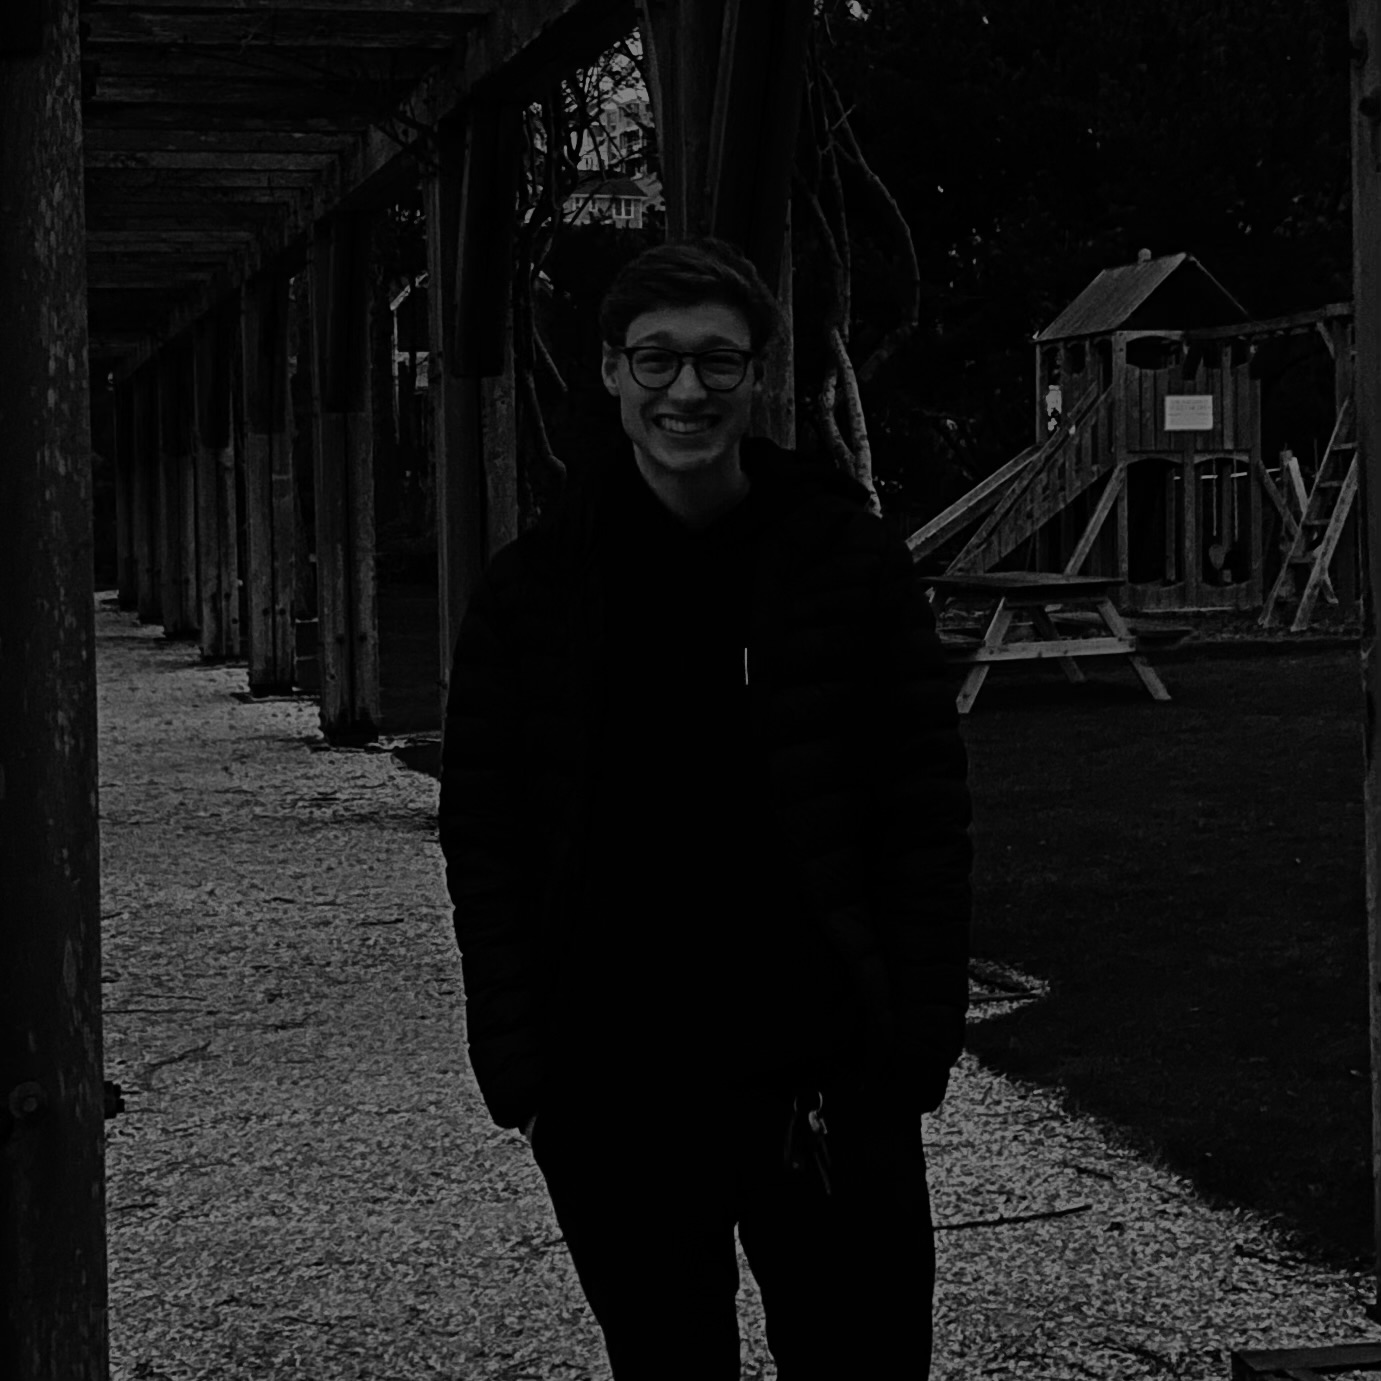
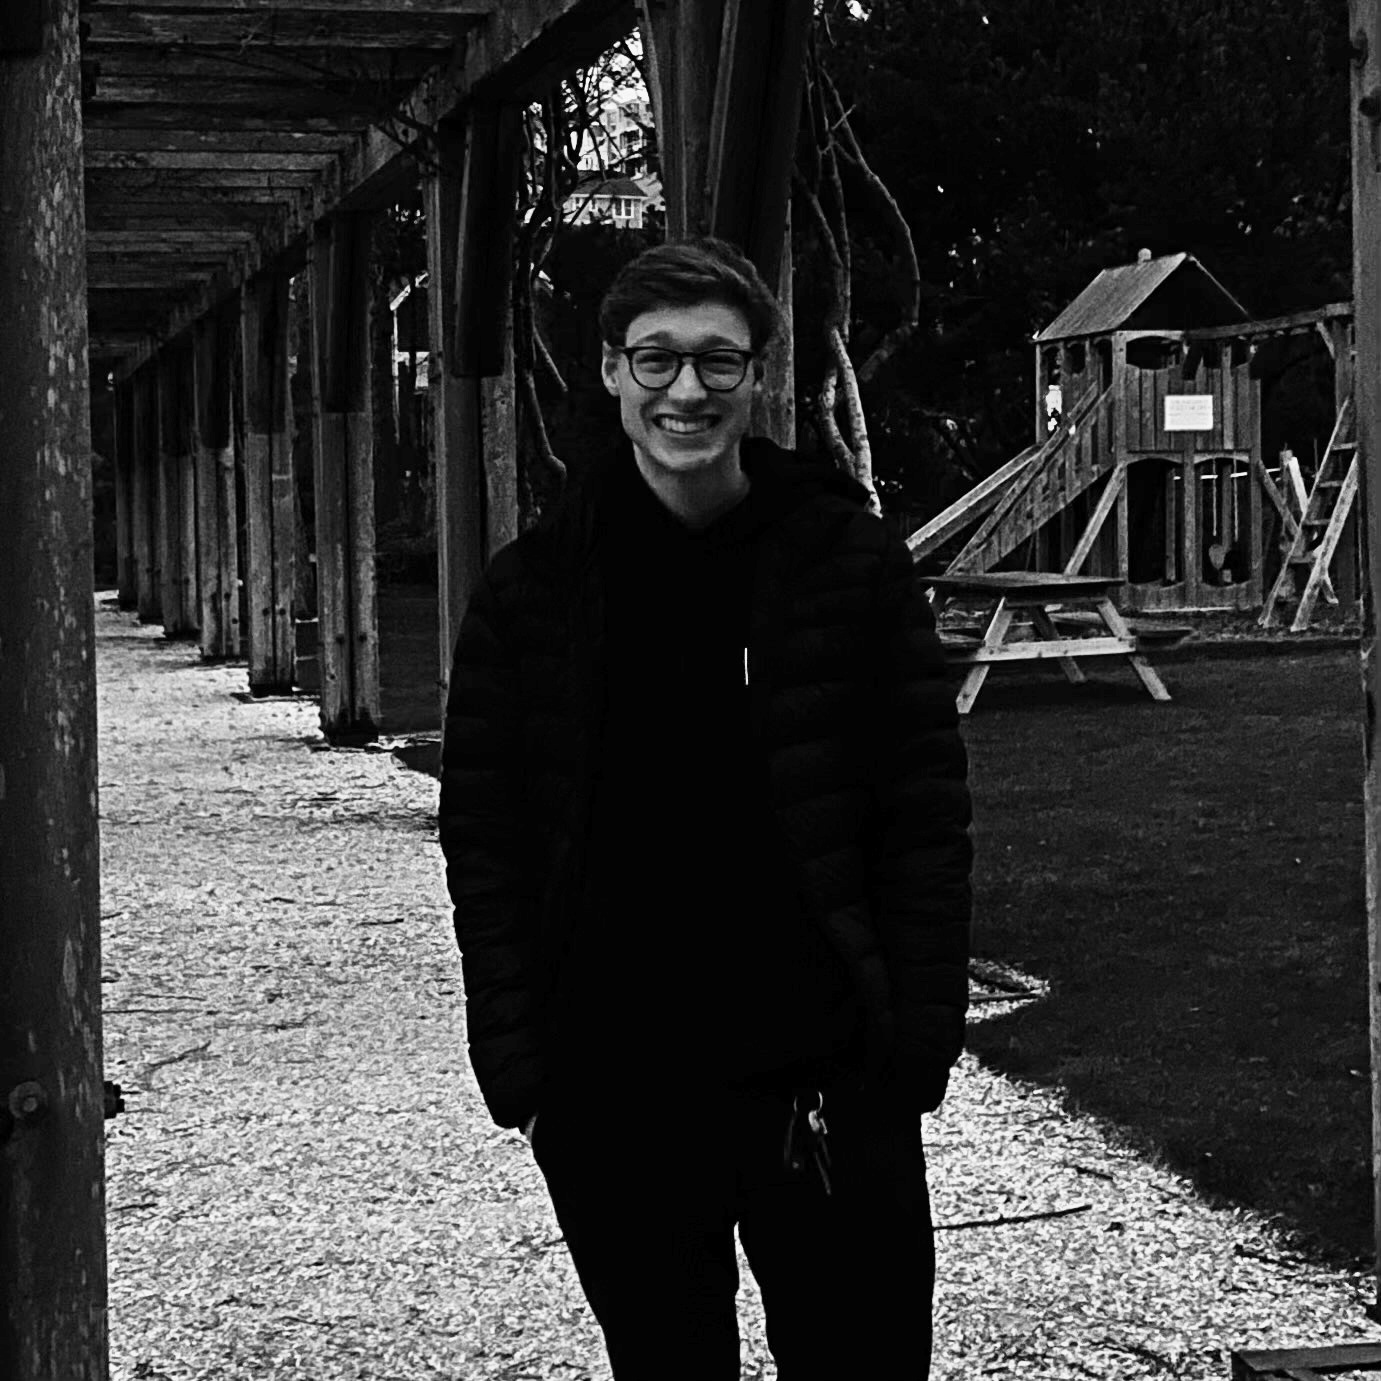
much better bloom+projects

diff --git a/coolfolio/main.js b/coolfolio/main.js
@@ -1,8 +1,11 @@
 import './style.css';
 import me from './me2.jpg'
+import pcb from './latticepcb.jpg';
+import lattice from './lattice.jpg';
 import sevseg from './sevseg_font.json?url';
 import code from './codefont.json?url';
 import about from './about.svg';
+import gear from './gears-solid.svg';
 import * as THREE from 'three';
 import { OrbitControls } from 'three/examples/jsm/controls/OrbitControls';
 import { EffectComposer } from 'three/examples/jsm/postprocessing/EffectComposer.js';
@@ -88,7 +91,7 @@ class Icon {
         for ( let i = 0; i < paths.length; i ++ ) {
           const path = paths[ i ];
           const material = new THREE.MeshBasicMaterial( {
-            color: 0x6e6e6e,
+            color: 0xffffff,
             side: THREE.DoubleSide,
             depthWrite: false
           } );
@@ -109,6 +112,17 @@ class Icon {
   }
 }
 
+class Image {
+  constructor(img, xyz, w, h) {
+    const texture = new THREE.TextureLoader().load(img);
+    const geometry = new THREE.BoxBufferGeometry( w, h, 1 );
+    const material = new THREE.MeshBasicMaterial( { map: texture } );
+    const mesh = new THREE.Mesh(geometry, material);
+    mesh.position.set(xyz[0], xyz[1], xyz[2]);
+    scene.add(mesh);
+  }
+}
+
 // Basic scene, camera, and renderer setup here
 const scene = new THREE.Scene();         //FOV, aspect ratio, view frustrum
 const fov = (window.screen.width < 1000) ? 100 : 75;
@@ -120,18 +134,28 @@ const renderer = new THREE.WebGLRenderer({
 // Initial camera setup and renderer settings
 renderer.setPixelRatio(window.devicePixelRation);
 renderer.setSize(window.innerWidth, window.innerHeight);
-camera.position.setZ(175);
+camera.position.setZ(180);
 camera.position.setY(50);
 
 const composer = new EffectComposer( renderer );
 const renderPass = new RenderPass( scene, camera );
 composer.addPass( renderPass );
-const bloomPass = new UnrealBloomPass(1, 1.3, 0.3,);
+const params = {
+  exposure: 1,
+  bloomStrength: 0.6,
+  bloomThreshold: 0,
+  bloomRadius: 1
+};
+const bloomPass = new UnrealBloomPass( new THREE.Vector2( window.innerWidth, window.innerHeight ), 1.5, 0.4, 0.85 );
+				bloomPass.threshold = params.bloomThreshold;
+				bloomPass.strength = params.bloomStrength;
+				bloomPass.radius = params.bloomRadius;
+//const bloomPass = new UnrealBloomPass(1, 1.3, 0.3,);
 composer.addPass(bloomPass);
 
-const pointLight = new THREE.PointLight(0x6e6e6e);
+const pointLight = new THREE.PointLight(0xffffff);
 pointLight.position.set(20,10,5);
-const ambientLight = new THREE.AmbientLight(0x6e6e6e);
+const ambientLight = new THREE.AmbientLight(0xffffff);
 scene.add(pointLight, ambientLight);
 
 const lightHelper = new THREE.PointLightHelper(pointLight);
@@ -144,16 +168,25 @@ const earth = new Planet('dodecahedron', 4, 0x3C81C9, true, false);
 const planetx = new Planet('tetrahedron', 8, 0xAA3139, true, false);
 const tiny = new Planet('box', 3, 0x6E6E6E, true, false);
 
+/*   ---===Icon Definitions===---   */
+const abouticon = new Icon(about, 0.05, [-75, -145, 0]);
+const gearicon = new Icon(gear, 0.05, [-75, -355, 0]);
+
 /*   ---===Text Definitions===---   */
 new Text("aiden olsen", 25, 25, 0x111111, [-75, 35, 0], sevseg);
 new Text("* personal portfolio *", 7, 20, 0x111111, [-62, 20, 0], code);
 new Text("about me:", 25, 15, 0x000f55, [-100, -200, 0], sevseg);
 const aboutme = 'I am a third year student\nattending Oregon State University\nworking towards a degree in\nElectrical and Computer Engineering.\nI enjoy skateboarding, making\nmusic, and being outdoors.'
-
 new Text(aboutme, 7, 10, 0x00f55, [-96, -215, 10], code);
+new Text("projects:", 25, 15, 0x211344, [-100, -410, 0], sevseg);
+new Text("lattice cube", 15, 10, 0x211344, [-102, -430, 0], sevseg);
+const latticedesc = '> Individually addressable 5x5x7\nLED cube utilizing layer multiplexing\nwith intuitive user interfacean\nand audio reactive visualization.';
+new Text(latticedesc, 7, 10, 0x211344, [-104, -442, 0], code);
 
-/*   ---===Icon Definitions===---   */
-const abouticon = new Icon(about, 0.05, [-75, -145, 0]);
+/*   ---===Image Definitions===---   */
+new Image(me, [90,-180,-40], 100, 100);
+new Image(pcb, [-15,-540, 0], 200, 100);
+new Image(lattice, [90, -400, -40], 100, 100);
 
 function addBlip() {
   var randscale = Math.floor(Math.random() * 2) + 1
@@ -169,13 +202,6 @@ function addBlip() {
   scene.add(blip);
 }
 Array(1000).fill().forEach(addBlip);
-
-const texture = new THREE.TextureLoader().load(me);
-const geometry = new THREE.BoxBufferGeometry( 100, 100, 1 );
-const material = new THREE.MeshBasicMaterial( { map: texture } );
-const mesh = new THREE.Mesh(geometry, material);
-mesh.position.set(90, -180, -40);
-scene.add(mesh);
 
 function moveCamera() {
   const t = document.body.getBoundingClientRect().top;
